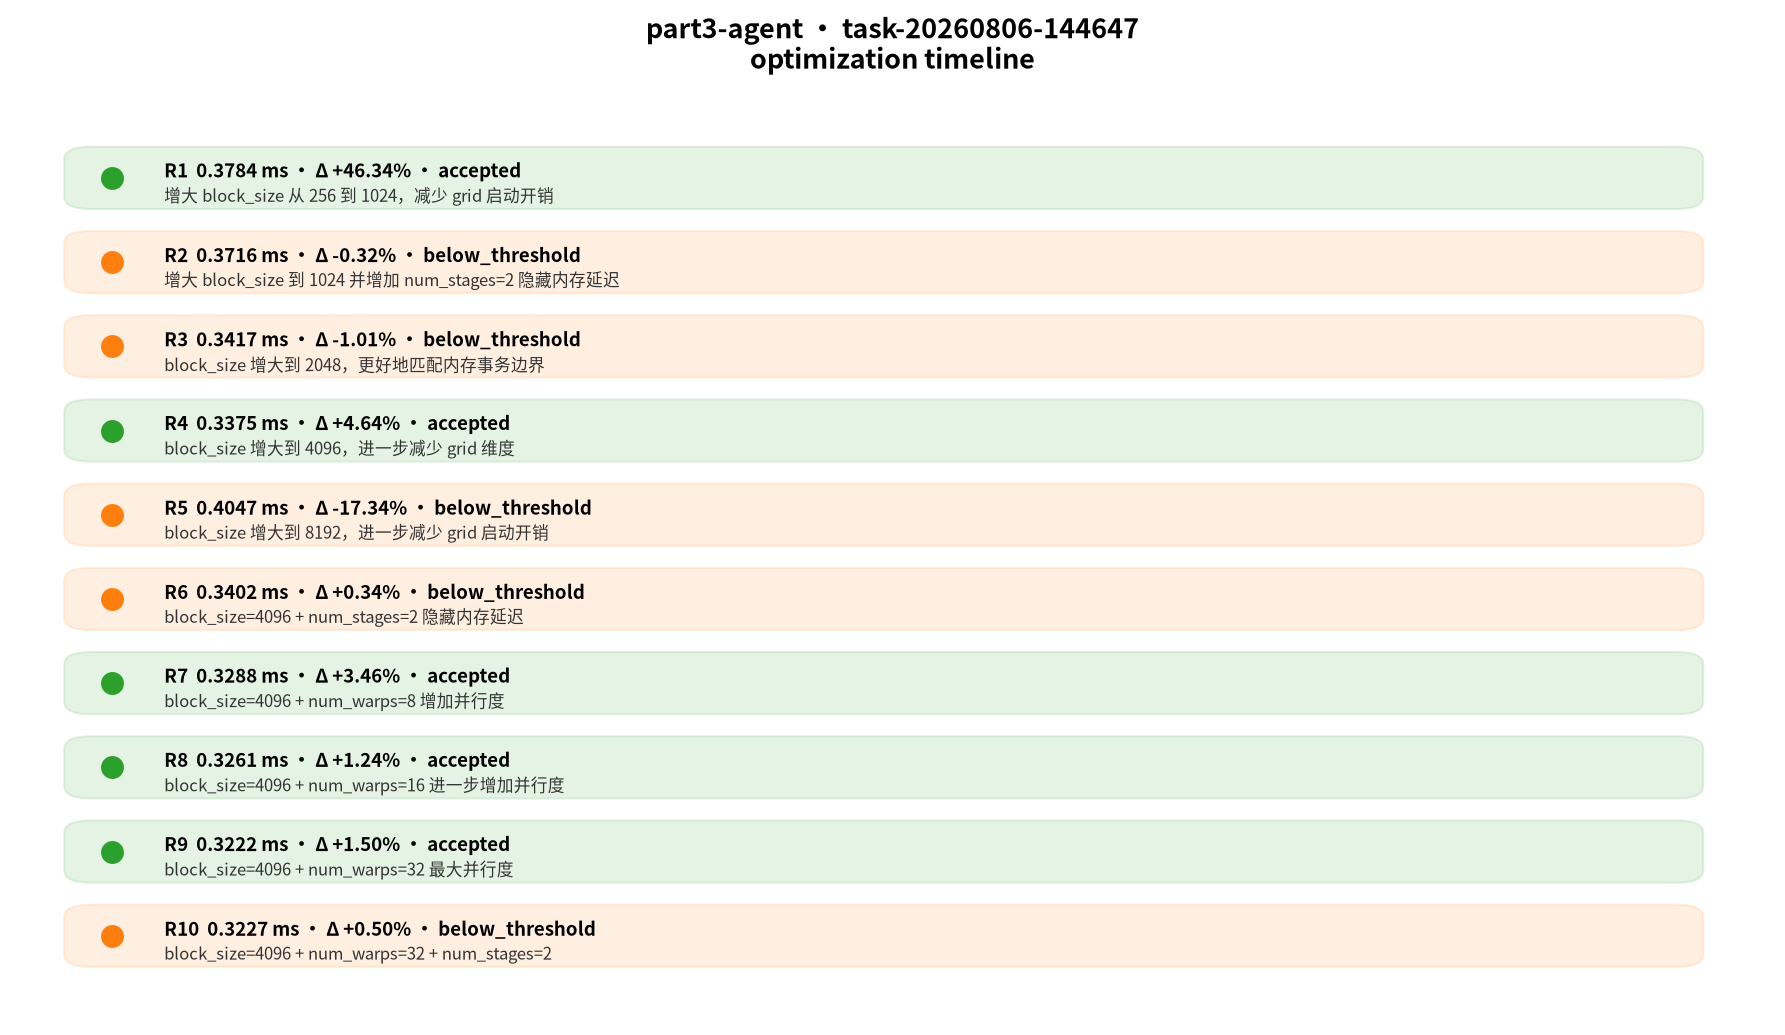
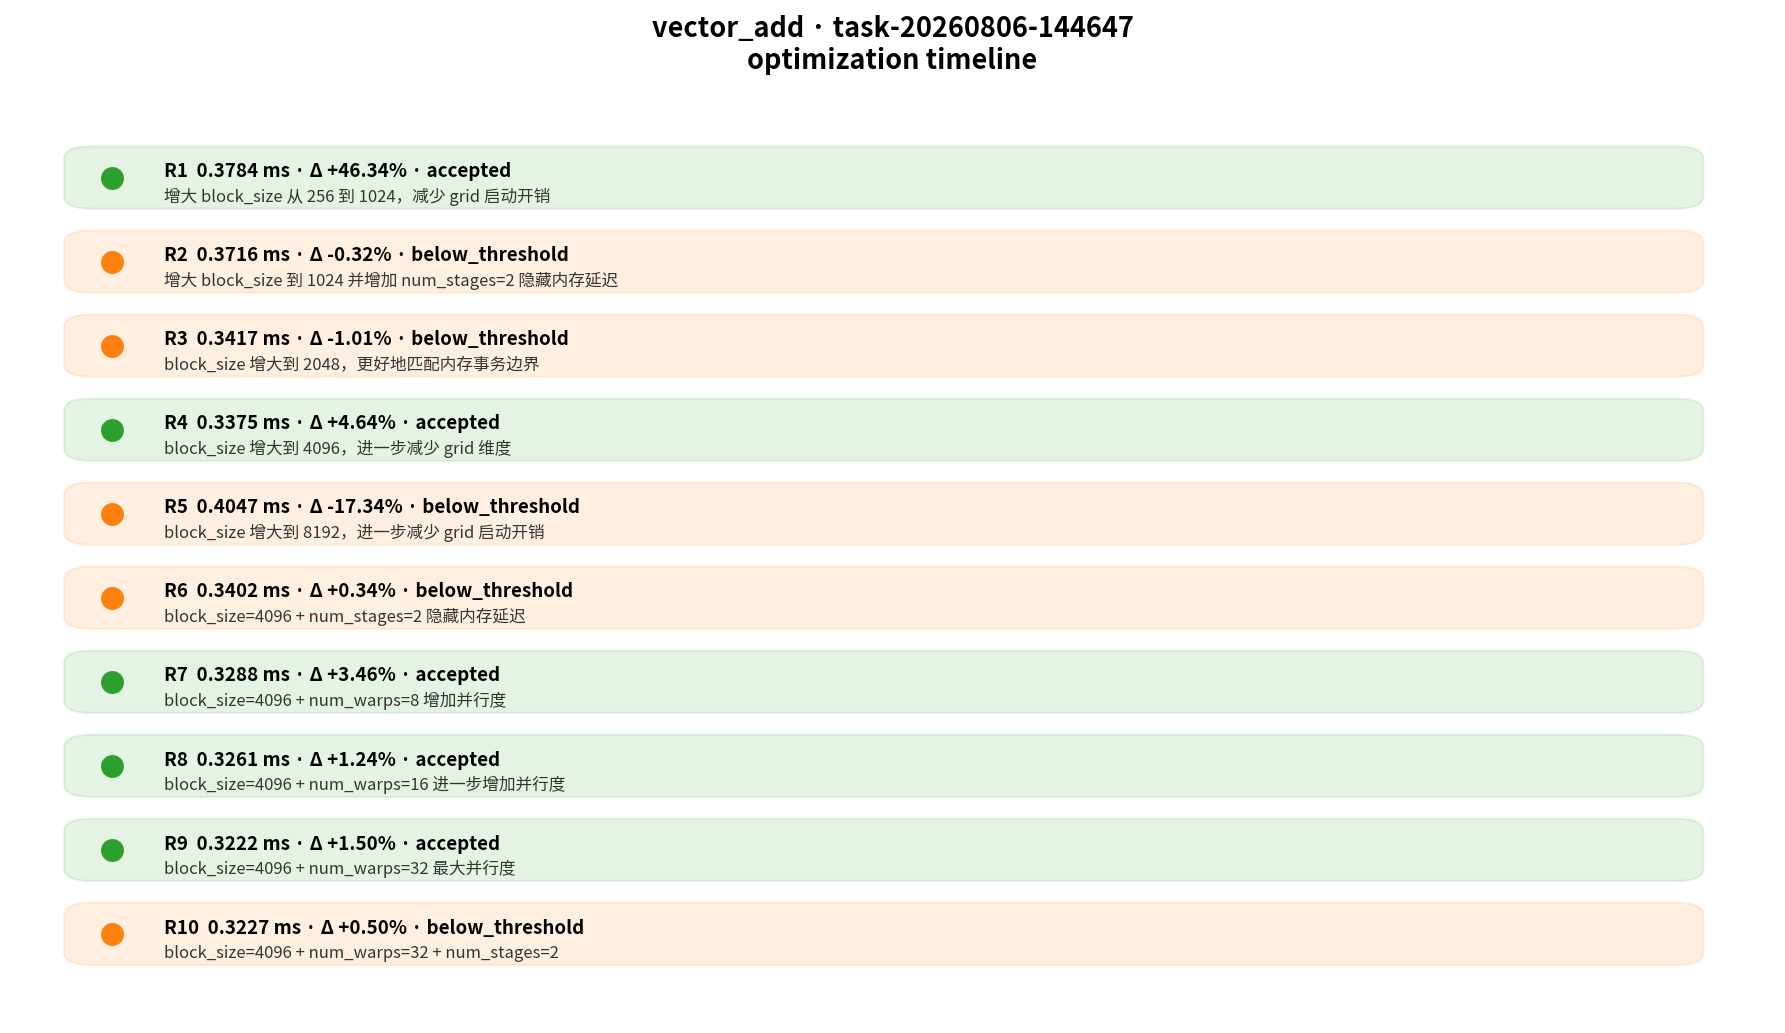
fix(docs): 补齐第17章插图 WebP 并重绘状态分布
VitePress 将 png 改写为 webp，补齐对应文件；状态分布改为中文饼图+条形图。

diff --git a/code/part3-agent/chapter16/visualize_trajectory.py b/code/part3-agent/chapter16/visualize_trajectory.py
@@ -187,23 +187,66 @@ def render_visualizations(
     plt.close(fig)
     saved.append(p1)
 
-    # ── 2) 状态分布 ──────────────────────────────────────────────
+    # ── 2) 状态分布（饼图 + 条形，中文标签）────────────────────────
     from collections import Counter
 
+    status_labels_zh = {
+        "accepted": "接受",
+        "below_threshold": "未达阈值",
+        "compile_error": "编译失败",
+        "rejected": "拒绝",
+        "unknown": "未知",
+    }
+    status_order = ["accepted", "below_threshold", "compile_error", "rejected", "unknown"]
     counts = Counter(statuses)
-    fig, ax = plt.subplots(figsize=(7, 4.5))
-    labels = list(counts.keys())
-    values = [counts[k] for k in labels]
-    bar_colors = [color_map.get(k, "#1f77b4") for k in labels]
-    bars = ax.bar(labels, values, color=bar_colors)
-    ax.set_title(f"{title}\nstatus breakdown (n={len(rows)})")
-    ax.set_ylabel("count")
+    ordered = [k for k in status_order if counts.get(k, 0) > 0]
+    ordered += [k for k in counts if k not in ordered]
+    labels_zh = [status_labels_zh.get(k, k) for k in ordered]
+    values = [counts[k] for k in ordered]
+    bar_colors = [color_map.get(k, "#1f77b4") for k in ordered]
+
+    fig, axes = plt.subplots(1, 2, figsize=(11, 4.8))
+    fig.suptitle(f"{title}\n状态分布（n={len(rows)}）", fontsize=13, fontweight="bold")
+
+    # 饼图
+    ax_pie = axes[0]
+    wedges, texts, autotexts = ax_pie.pie(
+        values,
+        labels=labels_zh,
+        colors=bar_colors,
+        autopct=lambda pct: f"{pct:.0f}%\n({int(round(pct / 100.0 * len(rows)))})",
+        startangle=90,
+        pctdistance=0.65,
+        wedgeprops={"linewidth": 1.0, "edgecolor": "white"},
+    )
+    for t in texts:
+        t.set_fontsize(10)
+    for t in autotexts:
+        t.set_fontsize(9)
+        t.set_color("#222222")
+    ax_pie.set_title("占比", fontsize=11)
+
+    # 条形图
+    ax_bar = axes[1]
+    bars = ax_bar.bar(labels_zh, values, color=bar_colors, width=0.55)
+    ax_bar.set_ylabel("次数")
+    ax_bar.set_title("计数", fontsize=11)
+    ax_bar.set_ylim(0, max(values) * 1.25 if values else 1)
     for bar, val in zip(bars, values):
-        ax.text(bar.get_x() + bar.get_width() / 2, bar.get_height() + 0.05, str(val), ha="center", va="bottom")
-    ax.grid(True, axis="y", alpha=0.25)
+        ax_bar.text(
+            bar.get_x() + bar.get_width() / 2,
+            bar.get_height() + 0.08,
+            str(val),
+            ha="center",
+            va="bottom",
+            fontsize=11,
+            fontweight="bold",
+        )
+    ax_bar.grid(True, axis="y", alpha=0.25)
+
     fig.tight_layout()
     p2 = out_dir / "status_breakdown.png"
-    fig.savefig(p2, dpi=150)
+    fig.savefig(p2, dpi=150, bbox_inches="tight")
     plt.close(fig)
     saved.append(p2)
 

diff --git a/docs/part3-agent/chapter17/optimization-report.md b/docs/part3-agent/chapter17/optimization-report.md
@@ -158,7 +158,7 @@ _vadd_kernel[grid](..., block_size, num_warps=32)
 
 ![接受与拒绝状态分布](./images/status_breakdown.png)
 
-10 轮评估中：**accepted = 5**，**below_threshold = 5**，无 `compile_error`（与另一次含编译失败的搜索不同）。
+10 轮评估中：**接受 = 5**，**未达阈值 = 5**，无编译失败（与另一次含编译失败的搜索不同）。
 
 ## 6. 工具调用与指标的对应关系
 

diff --git a/docs/part3-agent/chapter17/index.md b/docs/part3-agent/chapter17/index.md
@@ -148,7 +148,7 @@ task-20260806-144647/
 
 ![接受与拒绝状态分布](./images/status_breakdown.png)
 
-10 轮：**accepted = 5**，**below_threshold = 5**，本轮无 `compile_error`。
+10 轮：**接受 = 5**，**未达阈值 = 5**，本轮无编译失败。
 
 最终 `best.py` 要点：
 
